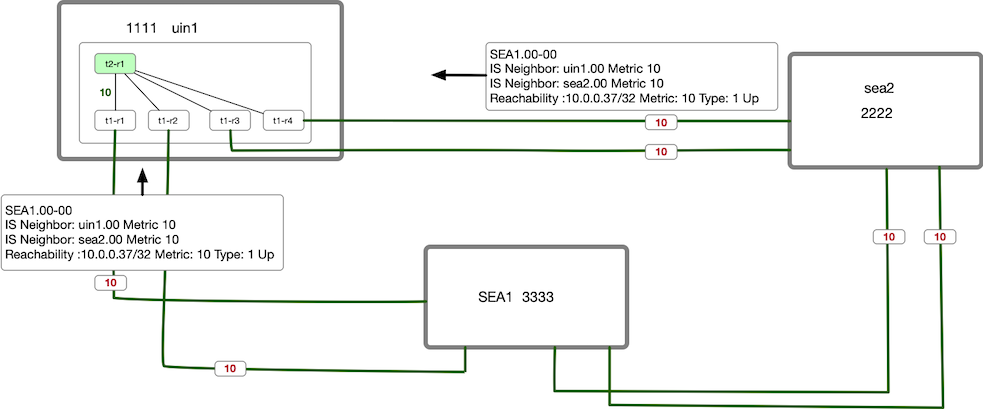
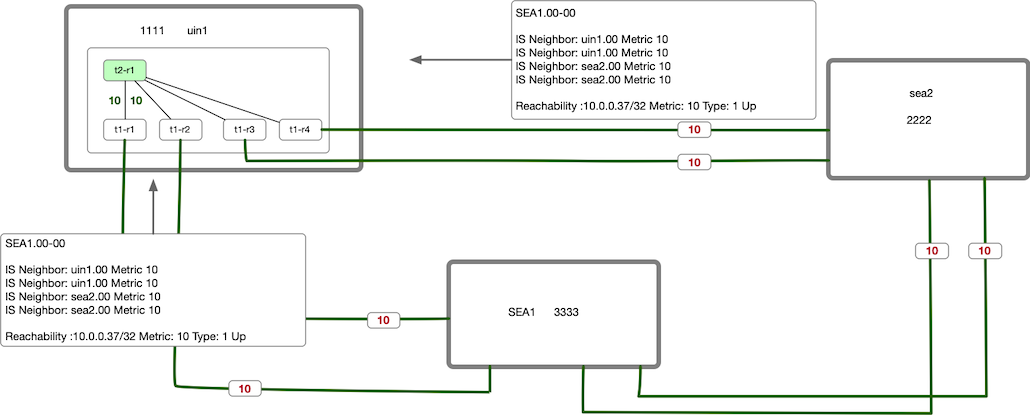
fixup

diff --git a/_posts/2022-6-05-IS-IS-Area-Proxy.md b/_posts/2022-6-05-IS-IS-Area-Proxy.md
@@ -177,14 +177,17 @@ uin1-b2-t2-r1#show ip route 10.0.0.37 detail
 
 ```
 What we see is that the metric to reach `sea2-b2-t2-r1` is `20`. The reachability of `sea2-b2-t2-r1` is advertised as part of 
-`SEA1.00-00` L2 LSP. The Cost `20` is sum of `uin1 -- SEA1` + `The loopback` cost. The cost via `PDX2` is `30` which is more
+`SEA1.00-00` L2 LSP. The Cost `20` is sum of `uin1<-->SEA1` + `The loopback` cost. The cost via `PDX2` is `30` which is more
  hence the directly connected path with metric of `20` is preferred.
 
-ISIS Cost for reaching the L2 LSPs is via and hence ECMP `uin1-b2-t2-r1 -- uin1_b2_t1_r1` or `uin1_b2_t1_r2`. 
+Given that `uin1-b1-t2-r1` is an internal router, It chooses the lowest Inter-Area Proxy cost which is 20.Then we look at the 
+Intra-area metric and since the cost is same via `uin1-b2-t1-r1` and `uin1-b2-t1-r2`, it ECMP between them as shown in the
+above output. 
 
 ![Metric external](/images/post12/meteric_external.png "Metric External")
 
-If I increase the cost on one of the link from `10` to `50`, then only ethernet 2 will be used. 
+If I increase the cost on one of the link from `10` to `50`, then only one of the remaining interface will be used to reach the route 
+as shown below.
 
 ```shell
 uin1-b2-t2-r1(config-if-Et2)#int eth1
@@ -193,10 +196,15 @@ uin1-b2-t2-r1(config-if-Et1)#show ip route 10.0.0.37 detail
 
  I L2     10.0.0.37/32 [115/20] via 10.1.0.101, Ethernet2 uin1_b2_t2_r1 -> uin1_b2_t1_r2
 
-
 ```
-If I increase both to `50`, then 
+
+Now If I raise the cost on Ethernet2 as well, you can see now the routes are pointing towards router `uin1_b2_t1_r[34]` 
+with Metric of 20 which is our Inter-Area metric. From `uin1_b2_t1_r[34]` perspective, it's pointing towards
+`uin1_b2_t2_r[234]` to exit via `uin1_b2_t1_r[12]`. Basically now the Intra-area metric to exit `t1-r[12]` is shorter via
+`t1-r[34]` --> `t2-r[234]` --> `t1-r[12]`. This shows how Inter and Intra area metrics are handled differently.
+
 ```shell
+uin1-b2-t2-r1(config-if-Et2)#isis metric 50
 uin1-b2-t2-r1(config-if-Et2)#show ip route 10.0.0.37 detail
 
  I L2     10.0.0.37/32 [115/20] via 10.1.0.105, Ethernet3 uin1_b2_t2_r1 -> uin1_b2_t1_r3
@@ -215,6 +223,8 @@ uin1-b2-t2-r2#show ip route 10.0.0.37 detail
                                 via 10.1.0.121, Ethernet2 uin1_b2_t2_r2 -> uin1_b2_t1_r2
 
 ```
+
+![Metric external2](/images/post12/meteric_external_2.png "Intra-Area metrics")
 
 ### Flooding
 An internal change in the topology will cause Area Leader to generate a new Proxy LSP with updated reachability and 
